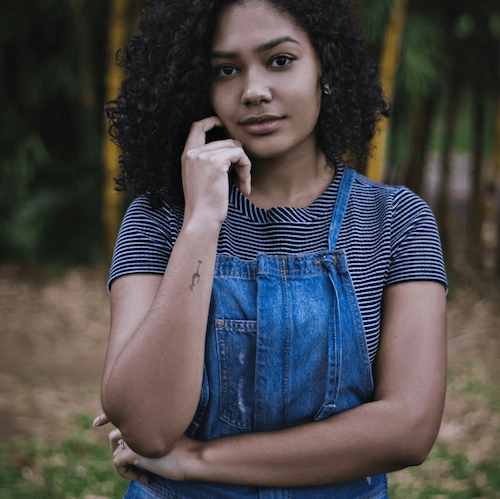
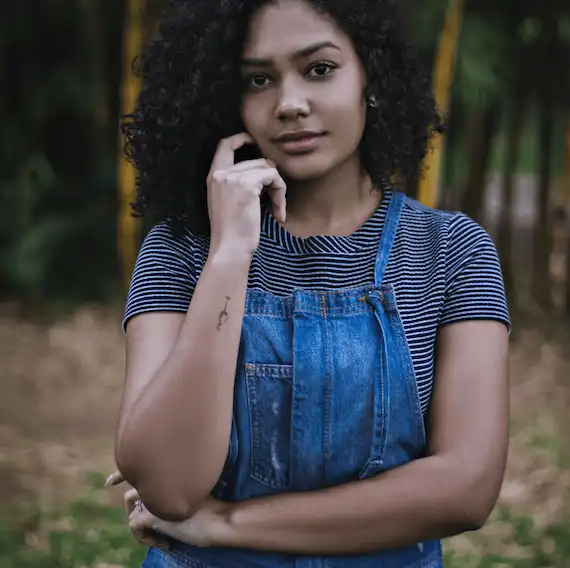
minify JS et CSS et adaptation des images/resising

Changed region(s): [[0.45, 0.3607, 0.9, 0.7214], [0.21, 0.3908, 0.36, 0.5711]]

diff --git a/assets/maugallery.js b/assets/maugallery.js
@@ -15,7 +15,7 @@
 
       $(this)
         .children(".gallery-item")
-        .each(function(index) {
+        .each(function() {
           $.fn.mauGallery.methods.responsiveImageItem($(this));
           $.fn.mauGallery.methods.moveItemInRowWrapper($(this));
           $.fn.mauGallery.methods.wrapItemInColumn($(this), options.columns);
@@ -40,6 +40,7 @@
       $(this).fadeIn(500);
     });
   };
+
   $.fn.mauGallery.defaults = {
     columns: 3,
     lightBox: true,
@@ -48,12 +49,15 @@
     tagsPosition: "bottom",
     navigation: true
   };
+
   $.fn.mauGallery.listeners = function(options) {
-    $(".gallery-item").on("click", function() {
-      if (options.lightBox && $(this).prop("tagName") === "IMG") {
-        $.fn.mauGallery.methods.openLightBox($(this), options.lightboxId);
-      } else {
-        return;
+    // délégué pour éviter les problèmes après manipulation DOM
+    $(".gallery").on("click", ".gallery-item", function() {
+      if (options.lightBox) {
+        const img = $(this).is("img") ? $(this) : $(this).find("img");
+        if (img.length) {
+          $.fn.mauGallery.methods.openLightBox(img, options.lightboxId);
+        }
       }
     });
 
@@ -65,14 +69,10 @@
       $.fn.mauGallery.methods.nextImage(options.lightboxId)
     );
   };
+
   $.fn.mauGallery.methods = {
     createRowWrapper(element) {
-      if (
-        !element
-          .children()
-          .first()
-          .hasClass("row")
-      ) {
+      if (!element.children().first().hasClass("row")) {
         element.append('<div class="gallery-items-row row"></div>');
       }
     },
@@ -83,21 +83,11 @@
         );
       } else if (columns.constructor === Object) {
         var columnClasses = "";
-        if (columns.xs) {
-          columnClasses += ` col-${Math.ceil(12 / columns.xs)}`;
-        }
-        if (columns.sm) {
-          columnClasses += ` col-sm-${Math.ceil(12 / columns.sm)}`;
-        }
-        if (columns.md) {
-          columnClasses += ` col-md-${Math.ceil(12 / columns.md)}`;
-        }
-        if (columns.lg) {
-          columnClasses += ` col-lg-${Math.ceil(12 / columns.lg)}`;
-        }
-        if (columns.xl) {
-          columnClasses += ` col-xl-${Math.ceil(12 / columns.xl)}`;
-        }
+        if (columns.xs) columnClasses += ` col-${Math.ceil(12 / columns.xs)}`;
+        if (columns.sm) columnClasses += ` col-sm-${Math.ceil(12 / columns.sm)}`;
+        if (columns.md) columnClasses += ` col-md-${Math.ceil(12 / columns.md)}`;
+        if (columns.lg) columnClasses += ` col-lg-${Math.ceil(12 / columns.lg)}`;
+        if (columns.xl) columnClasses += ` col-xl-${Math.ceil(12 / columns.xl)}`;
         element.wrap(`<div class='item-column mb-4${columnClasses}'></div>`);
       } else {
         console.error(
@@ -114,10 +104,15 @@
       }
     },
     openLightBox(element, lightboxId) {
-      $(`#${lightboxId}`)
-        .find(".lightboxImage")
-        .attr("src", element.attr("src"));
-      $(`#${lightboxId}`).modal("toggle");
+      const targetId = lightboxId ? lightboxId : "galleryLightbox";
+      const modalEl = document.getElementById(targetId);
+      if (!modalEl) return;
+
+      $(modalEl).find(".lightboxImage").attr("src", element.attr("src"));
+
+      // API Bootstrap 5 (plus de $(...).modal)
+      const modal = bootstrap.Modal.getOrCreateInstance(modalEl);
+      modal.show();
     },
     prevImage() {
       let activeImage = null;
@@ -136,26 +131,19 @@
         });
       } else {
         $(".item-column").each(function() {
-          if (
-            $(this)
-              .children("img")
-              .data("gallery-tag") === activeTag
-          ) {
+          if ($(this).children("img").data("gallery-tag") === activeTag) {
             imagesCollection.push($(this).children("img"));
           }
         });
       }
-      let index = 0,
-        next = null;
+      let index = 0, next = null;
 
       $(imagesCollection).each(function(i) {
         if ($(activeImage).attr("src") === $(this).attr("src")) {
           index = i - 1;
         }
       });
-      next =
-        imagesCollection[index] ||
-        imagesCollection[imagesCollection.length - 1];
+      next = imagesCollection[index] || imagesCollection[imagesCollection.length - 1];
       $(".lightboxImage").attr("src", $(next).attr("src"));
     },
     nextImage() {
@@ -175,17 +163,12 @@
         });
       } else {
         $(".item-column").each(function() {
-          if (
-            $(this)
-              .children("img")
-              .data("gallery-tag") === activeTag
-          ) {
+          if ($(this).children("img").data("gallery-tag") === activeTag) {
             imagesCollection.push($(this).children("img"));
           }
         });
       }
-      let index = 0,
-        next = null;
+      let index = 0, next = null;
 
       $(imagesCollection).each(function(i) {
         if ($(activeImage).attr("src") === $(this).attr("src")) {
@@ -198,32 +181,32 @@
     createLightBox(gallery, lightboxId, navigation) {
       gallery.append(`<div class="modal fade" id="${
         lightboxId ? lightboxId : "galleryLightbox"
-      }" tabindex="-1" role="dialog" aria-hidden="true">
-                <div class="modal-dialog" role="document">
-                    <div class="modal-content">
-                        <div class="modal-body">
-                            ${
-                              navigation
-                                ? '<div class="mg-prev" style="cursor:pointer;position:absolute;top:50%;left:-15px;background:white;"><</div>'
-                                : '<span style="display:none;" />'
-                            }
-                            <img class="lightboxImage img-fluid" alt="Contenu de l'image affichée dans la modale au clique"/>
-                            ${
-                              navigation
-                                ? '<div class="mg-next" style="cursor:pointer;position:absolute;top:50%;right:-15px;background:white;}">></div>'
-                                : '<span style="display:none;" />'
-                            }
-                        </div>
-                    </div>
-                </div>
-            </div>`);
+      }" tabindex="-1" aria-hidden="true">
+        <div class="modal-dialog" role="document">
+          <div class="modal-content">
+            <div class="modal-body position-relative">
+              ${
+                navigation
+                  ? '<div class="mg-prev" style="cursor:pointer;position:absolute;top:50%;left:-15px;background:white;z-index:10;">&lt;</div>'
+                  : '<span style="display:none;" />'
+              }
+              <img class="lightboxImage img-fluid" alt="Contenu de l\'image affichée dans la modale au clic"/>
+              ${
+                navigation
+                  ? '<div class="mg-next" style="cursor:pointer;position:absolute;top:50%;right:-15px;background:white;z-index:10;">&gt;</div>'
+                  : '<span style="display:none;" />'
+              }
+            </div>
+          </div>
+        </div>
+      </div>`);
     },
     showItemTags(gallery, position, tags) {
       var tagItems =
         '<li class="nav-item"><span class="nav-link active active-tag"  data-images-toggle="all">Tous</span></li>';
       $.each(tags, function(index, value) {
         tagItems += `<li class="nav-item active">
-                <span class="nav-link"  data-images-toggle="${value}">${value}</span></li>`;
+          <span class="nav-link"  data-images-toggle="${value}">${value}</span></li>`;
       });
       var tagsRow = `<ul class="my-4 tags-bar nav nav-pills">${tagItems}</ul>`;
 
@@ -236,29 +219,21 @@
       }
     },
     filterByTag() {
-      if ($(this).hasClass("active-tag")) {
-        return;
-      }
+      if ($(this).hasClass("active-tag")) return;
+
       $(".active.active-tag").removeClass("active active-tag");
       $(this).addClass("active-tag active");
 
       var tag = $(this).data("images-toggle");
 
       $(".gallery-item").each(function() {
-        $(this)
-          .parents(".item-column")
-          .hide();
+        $(this).parents(".item-column").hide();
         if (tag === "all") {
-          $(this)
-            .parents(".item-column")
-            .show(300);
+          $(this).parents(".item-column").show(300);
         } else if ($(this).data("gallery-tag") === tag) {
-          $(this)
-            .parents(".item-column")
-            .show(300);
+          $(this).parents(".item-column").show(300);
         }
       });
     }
   };
 })(jQuery);
-

diff --git a/index.html b/index.html
@@ -4,7 +4,7 @@
 	<meta charset="UTF-8">
 	<meta name="viewport" content="width=device-width, initial-scale=1.0">
 	<title>Nina Carducci</title>
-	<meta name="description" content="Saisir un moment, une émotion, une situation, un endroit, une lumière et les rendre immortels, voilà ce qui me fait vibrer. Alors cliquez pour prendre rendez-vous ou pour découvrir mon travail"/>
+	<meta name="description" content="Saisir un moment, une émotion et les rendre immortels, voilà ce qui me fait vibrer. Alors cliquez pour prendre rendez-vous ou pour découvrir mon travail."/>
 	<link rel="preconnect" href="https://fonts.googleapis.com">
 	<link rel="preconnect" href="https://fonts.gstatic.com" crossorigin>
 	<link rel="preload" 
@@ -14,13 +14,13 @@
 	      rel="stylesheet">
 	<link rel="preload" href="./assets/bootstrap/bootstrap.min.css" as="style" onload="this.onload=null;this.rel='stylesheet'">
 	<noscript><link rel="stylesheet" href="./assets/bootstrap/bootstrap.min.css"></noscript>
-	<link rel="stylesheet" href="./assets/style.css">	
+	<link rel="stylesheet" href="./assets/style.min.css">	
 	<script src="./assets/bootstrap/bootstrap.bundle.min.js" defer></script>
 	<script src="https://code.jquery.com/jquery-3.4.1.min.js" 
 	        integrity="sha256-CSXorXvZcTkaix6Yvo6HppcZGetbYMGWSFlBw8HfCJo=" 
 	        crossorigin="anonymous" 
 	        defer></script>
-	<script src="./assets/maugallery.js" defer></script>
+	<script src="./assets/maugallery.min.js" defer></script>
 	<script src="./assets/scripts.js" defer></script>
 </head>
 
@@ -47,13 +47,13 @@
 		</div>
 		<div class="carousel-inner">
 			<div class="carousel-item active">
-				<img src="./assets/images/slider/ryoji-iwata-wUZjnOv7t0g-unsplash.webp" class="d-block w-100" alt="Hommme marchant sur un passage piéton">
+				<img src="./assets/images/slider/ryoji-iwata-wUZjnOv7t0g-unsplash.webp" fetchpriority="high" class="d-block w-100" alt="Hommme marchant sur un passage piéton">
 			</div>
 			<div class="carousel-item">
-				<img src="./assets/images/slider/nicholas-green-nPz8akkUmDI-unsplash.webp" class="d-block w-100" alt="Foule criant et chantant">
+				<img src="./assets/images/slider/nicholas-green-nPz8akkUmDI-unsplash.webp" class="d-block w-100" alt="Foule criant et chantant" loading="lazy">
 			</div>
 			<div class="carousel-item">
-				<img src="./assets/images/slider/edward-cisneros-3_h6-1NPDGw-unsplash.webp" class="d-block w-100" alt="Couple de mariés qui s'embrassent">
+				<img src="./assets/images/slider/edward-cisneros-3_h6-1NPDGw-unsplash.webp" class="d-block w-100" alt="Couple de mariés qui s'embrassent" loading="lazy">
 			</div>
 		</div>
 		<button class="carousel-control-prev" type="button" data-bs-target="#carouselExampleIndicators" data-bs-slide="prev">
@@ -71,14 +71,14 @@
 		<img src="./assets/images/nina.webp" alt="Photo de Nina Carducci">
 	</div>
 	<div id="about-me">
-		<h3 class="about-me__title">A propos de moi</h3>
-		<h6 class="about-me__introduction">Devenir photographe était pour moi une évidence. Comme si j’y étais prédestiné. Saisir un moment, une émotion, une situation, un endroit, une lumière et les rendre immortels, voilà ce qui me fait vibrer.</h6>
+		<h2 class="about-me__title">A propos de moi</h2>
+		<h5 class="about-me__introduction">Devenir photographe était pour moi une évidence. Comme si j’y étais prédestiné. Saisir un moment, une émotion, une situation, un endroit, une lumière et les rendre immortels, voilà ce qui me fait vibrer.</h5>
 		<p>Nous passons notre vie à chercher le bonheur, et lorsque nous y touchons, nous n’avons qu’une envie : le figer au travers de photographies pour le savourer avec les personnes qui sont importantes à nos yeux, ou le partager au plus grand nombre.
 			C’est ce que je vous propose : saisir ces merveilleux moments au travers de mon regard, mon approche, ma technique. Rendre ces moments immortels, afin que vous puissiez y puiser de l’amour, du bonheur, de la tendresse et de lumière à chaque fois que vous poserez les yeux sur vos photos.</p>
 	</div>
 </div>
 <div id="gallery">
-	<h3 class="title">Portfolio</h3>
+	<h2 class="title">Portfolio</h2>
 	<div class="container py-3">
 		<div class="gallery" style="display: none">
 			<img data-gallery-tag="Concert" class="gallery-item" src="./assets/images/gallery/concerts/aaron-paul-wnX-fXzB6Cw-unsplash.webp" alt="Image concert Aaron Paul"/>
@@ -87,7 +87,7 @@
 			<img data-gallery-tag="Mariages" class="gallery-item" src="./assets/images/gallery/mariage/hannah-busing-RvF2R_qMpRk-unsplash.webp" alt="Photo des marriés les main tendu l'un pour l'autre"/>
 			<img data-gallery-tag="Portrait" class="gallery-item" src="./assets/images/gallery/portraits/ade-tunji-rVkhWWZFAtQ-unsplash.webp" alt="Photo d'un homme plissant les yeux"/>
 			<img data-gallery-tag="Mariages" class="gallery-item" src="./assets/images/gallery/mariage/jakob-owens-SiniLJkXhMc-unsplash.webp" alt="Photo de mariés qui marche et se regarde"/>
-			<img data-gallery-tag="Portrait" class="gallery-item" src="./assets/images/gallery/portraits/nino-van-prattenburg-443cl1uR_8-unsplash.webp" alt="Photo d'une femme derrière un grillage"/>
+			<img data-gallery-tag="Portrait" class="gallery-item" src="./assets/images/gallery/portraits/nino-van-prattenburg--443cl1uR_8-unsplash.webp" alt="Photo d'une femme derrière un grillage"/>
 			<img data-gallery-tag="Concert" class="gallery-item" src="./assets/images/gallery/concerts/austin-neill-hgO1wFPXl3I-unsplash.webp" alt="Chanteur faisant le chiffre 4 avec la main"/>
 			<img data-gallery-tag="Entreprises" class="gallery-item" src="./assets/images/gallery/entreprise/mateus-campos-felipe-Fsgzm8N0hIY-unsplash.webp" alt="Femme qui travaille sur un ordinateur portable en riant"/>
 		</div>
@@ -102,7 +102,7 @@
 	</div>
 </div>
 <div id="services">
-	<h3 class="title">Mes services</h3>
+	<h2 class="title">Mes services</h2>
 	<div class="container">
 		<div class="service">
 			<div class="service__description">

diff --git a/assets/maugallery.min.js b/assets/maugallery.min.js
@@ -1,0 +1,1 @@
+!function(t){t.fn.mauGallery=function(a){a=t.extend(t.fn.mauGallery.defaults,a);var e=[];return this.each((function(){t.fn.mauGallery.methods.createRowWrapper(t(this)),a.lightBox&&t.fn.mauGallery.methods.createLightBox(t(this),a.lightboxId,a.navigation),t.fn.mauGallery.listeners(a),t(this).children(".gallery-item").each((function(){t.fn.mauGallery.methods.responsiveImageItem(t(this)),t.fn.mauGallery.methods.moveItemInRowWrapper(t(this)),t.fn.mauGallery.methods.wrapItemInColumn(t(this),a.columns);var l=t(this).data("gallery-tag");a.showTags&&void 0!==l&&-1===e.indexOf(l)&&e.push(l)})),a.showTags&&t.fn.mauGallery.methods.showItemTags(t(this),a.tagsPosition,e),t(this).fadeIn(500)}))},t.fn.mauGallery.defaults={columns:3,lightBox:!0,lightboxId:null,showTags:!0,tagsPosition:"bottom",navigation:!0},t.fn.mauGallery.listeners=function(a){t(".gallery").on("click",".gallery-item",(function(){if(a.lightBox){const e=t(this).is("img")?t(this):t(this).find("img");e.length&&t.fn.mauGallery.methods.openLightBox(e,a.lightboxId)}})),t(".gallery").on("click",".nav-link",t.fn.mauGallery.methods.filterByTag),t(".gallery").on("click",".mg-prev",(()=>t.fn.mauGallery.methods.prevImage(a.lightboxId))),t(".gallery").on("click",".mg-next",(()=>t.fn.mauGallery.methods.nextImage(a.lightboxId)))},t.fn.mauGallery.methods={createRowWrapper(t){t.children().first().hasClass("row")||t.append('<div class="gallery-items-row row"></div>')},wrapItemInColumn(t,a){if(a.constructor===Number)t.wrap(`<div class='item-column mb-4 col-${Math.ceil(12/a)}'></div>`);else if(a.constructor===Object){var e="";a.xs&&(e+=` col-${Math.ceil(12/a.xs)}`),a.sm&&(e+=` col-sm-${Math.ceil(12/a.sm)}`),a.md&&(e+=` col-md-${Math.ceil(12/a.md)}`),a.lg&&(e+=` col-lg-${Math.ceil(12/a.lg)}`),a.xl&&(e+=` col-xl-${Math.ceil(12/a.xl)}`),t.wrap(`<div class='item-column mb-4${e}'></div>`)}else console.error(`Columns should be defined as numbers or objects. ${typeof a} is not supported.`)},moveItemInRowWrapper(t){t.appendTo(".gallery-items-row")},responsiveImageItem(t){"IMG"===t.prop("tagName")&&t.addClass("img-fluid")},openLightBox(a,e){const l=e||"galleryLightbox",i=document.getElementById(l);if(!i)return;t(i).find(".lightboxImage").attr("src",a.attr("src"));bootstrap.Modal.getOrCreateInstance(i).show()},prevImage(){let a=null;t("img.gallery-item").each((function(){t(this).attr("src")===t(".lightboxImage").attr("src")&&(a=t(this))}));let e=t(".tags-bar span.active-tag").data("images-toggle"),l=[];"all"===e?t(".item-column").each((function(){t(this).children("img").length&&l.push(t(this).children("img"))})):t(".item-column").each((function(){t(this).children("img").data("gallery-tag")===e&&l.push(t(this).children("img"))}));let i=0,s=null;t(l).each((function(e){t(a).attr("src")===t(this).attr("src")&&(i=e-1)})),s=l[i]||l[l.length-1],t(".lightboxImage").attr("src",t(s).attr("src"))},nextImage(){let a=null;t("img.gallery-item").each((function(){t(this).attr("src")===t(".lightboxImage").attr("src")&&(a=t(this))}));let e=t(".tags-bar span.active-tag").data("images-toggle"),l=[];"all"===e?t(".item-column").each((function(){t(this).children("img").length&&l.push(t(this).children("img"))})):t(".item-column").each((function(){t(this).children("img").data("gallery-tag")===e&&l.push(t(this).children("img"))}));let i=0,s=null;t(l).each((function(e){t(a).attr("src")===t(this).attr("src")&&(i=e+1)})),s=l[i]||l[0],t(".lightboxImage").attr("src",t(s).attr("src"))},createLightBox(t,a,e){t.append(`<div class="modal fade" id="${a||"galleryLightbox"}" tabindex="-1" aria-hidden="true">\n        <div class="modal-dialog" role="document">\n          <div class="modal-content">\n            <div class="modal-body position-relative">\n              ${e?'<div class="mg-prev" style="cursor:pointer;position:absolute;top:50%;left:-15px;background:white;z-index:10;">&lt;</div>':'<span style="display:none;" />'}\n              <img class="lightboxImage img-fluid" alt="Contenu de l'image affichée dans la modale au clic"/>\n              ${e?'<div class="mg-next" style="cursor:pointer;position:absolute;top:50%;right:-15px;background:white;z-index:10;">&gt;</div>':'<span style="display:none;" />'}\n            </div>\n          </div>\n        </div>\n      </div>`)},showItemTags(a,e,l){var i='<li class="nav-item"><span class="nav-link active active-tag"  data-images-toggle="all">Tous</span></li>';t.each(l,(function(t,a){i+=`<li class="nav-item active">\n          <span class="nav-link"  data-images-toggle="${a}">${a}</span></li>`}));var s=`<ul class="my-4 tags-bar nav nav-pills">${i}</ul>`;"bottom"===e?a.append(s):"top"===e?a.prepend(s):console.error(`Unknown tags position: ${e}`)},filterByTag(){if(!t(this).hasClass("active-tag")){t(".active.active-tag").removeClass("active active-tag"),t(this).addClass("active-tag active");var a=t(this).data("images-toggle");t(".gallery-item").each((function(){t(this).parents(".item-column").hide(),("all"===a||t(this).data("gallery-tag")===a)&&t(this).parents(".item-column").show(300)}))}}}}(jQuery);

diff --git a/assets/style.min.css b/assets/style.min.css
@@ -1,0 +1,1 @@
+body{max-width:1920px;margin:auto}img{max-height:650px}*{font-family:'Inter';font-style:normal}.top-header{background-color:#fff;position:sticky;top:0;z-index:1000;display:flex;justify-content:space-between;padding-inline:100px;padding-block:30px;align-items:center}.top-header .name{font-size:26px}.nav ul{display:flex;list-style-type:none;font-size:14px;margin-bottom:0}.nav li{padding-inline:10px}.nav a{text-decoration:none;color:#000}.social-link img{width:20px}#about{display:flex;background-color:#F6D2B8;padding-inline:100px;padding-block:100px;position:relative}.picture.left::before{content:' ';background-color:#E5975F;width:374px;height:329px;position:absolute;bottom:0;left:0;z-index:-1}.picture{flex:1;margin:0 20px;z-index:0}.picture img{width:100%}#about-me{flex:2}.about-me__title{margin-top:1em;margin-bottom:60px;font-size:30px}.about-me__introduction{font-family:'Spectral';font-weight:800;font-style:italic;width:60%}#about-me p{width:80%;font-size:14px}.title{text-align:center;padding-block:2em}.gallery .nav{justify-content:center}.nav-pills .nav-link.active,.nav-pills .show>.nav-link{color:#fff;background-color:#BEB45A;border-radius:0}.nav-pills .nav-link{color:#000}.item-column{position:relative;margin-bottom:0!important;padding:0}.item-column::after{content:"";display:block;padding-bottom:100%}.gallery-item{position:absolute;width:100%;height:100%;object-fit:cover;padding:.5em}.mg-prev,.mg-next{width:30px;height:30px;border-radius:0%;justify-content:center;align-items:center;display:flex;font-size:24px}.quote{font-family:'Spectral';font-style:italic;width:70%;margin:auto;padding-block:3em}.quote__text{font-family:Spectral;font-style:italic;font-weight:300}.quote__author{font-family:Spectral;font-weight:800;font-size:22px}#services{margin:auto;background-color:#A8D5D8;position:relative}#services .container::before{content:' ';background-color:#1C6474;position:absolute;width:100%;height:30%;bottom:0;left:0;z-index:0}#services .container{justify-content:space-between;display:flex;padding:2em 0}.service{background-color:#fff;max-width:390px;width:30%;height:337px;padding:1em;display:flex;flex-direction:column;justify-content:space-between;z-index:1}#contact{margin:auto;background-color:#D8D3A8;position:relative;padding-inline:100px;padding-block:100px}#contact .container{display:flex}.picture.right::before{content:' ';background-color:#BEB45A;width:374px;height:329px;position:absolute;bottom:0;right:0;z-index:-1}.form-container{flex:2}form{display:flex;flex-direction:column;width:70%;align-items:flex-start}form input{width:100%;background-color:#fff0;border:solid 1px;height:2.5em;margin-bottom:20px}form textarea{width:100%;background-color:#fff0;border:solid 1px;height:5em;line-height:2.5em;font-size:1.2em;margin-bottom:20px}input[type="submit"]{background-color:#BEB45A;padding:.5em 1em}@media all and (max-width:1180px){.picture{flex:2}#about,#contact .container{align-items:center}.about-me__title{margin-top:0;margin-bottom:1em}#about-me h6,#about-me p{width:100%}}@media all and (max-width:1000px){#about{flex-direction:column}.picture{width:50%}.picture.left::before{width:100%;height:30%;position:absolute;bottom:auto;top:0;left:0;z-index:-1}.about-me__title{text-align:center;margin-top:1em}#services .container{flex-direction:column}.service{width:100%;max-width:100%;height:auto;margin:2em 0}.service__description{margin-bottom:1em}#services .container::before{width:30%;height:100%;bottom:0;right:0;left:auto;z-index:0}#contact .container{flex-direction:column}#contact .picture.right{margin-top:1em}.picture.right::before{width:100%;height:30%;position:absolute;bottom:0;right:0;z-index:-1}}@media all and (max-width:650px){.top-header{flex-direction:column;padding-inline:0}.top-header .nav,.top-header .nav ul{width:100%;padding:0 0 0 0}.top-header .nav li{flex:1;padding-block:1em;text-align:center}.picture.left::before,.picture.right::before{height:150px}#services .container{align-items:center}.service{max-width:90%}#about,#contact{padding-inline:2em;padding-block:2em}form{width:100%}.picture{width:80%}}

diff --git a/assets/style.css b/assets/style.css
@@ -260,7 +260,7 @@ input[type="submit"] {
 		margin-top: 0;
 		margin-bottom: 1em;
 	}
-	#about-me h6, #about-me p {
+	#about-me h5, #about-me p {
 		width: 100%;
 	}
 }
